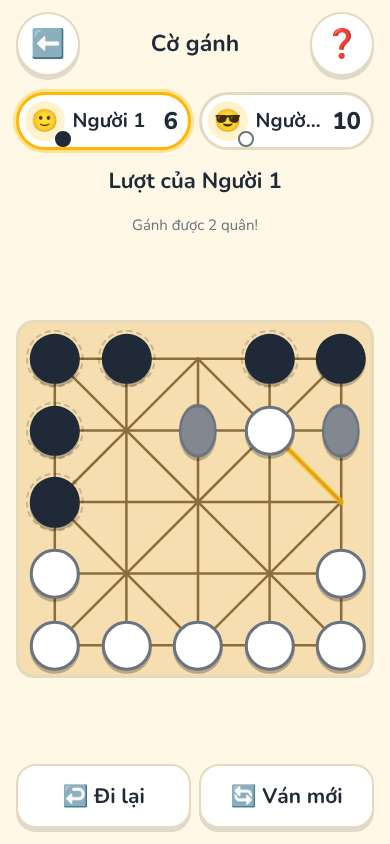
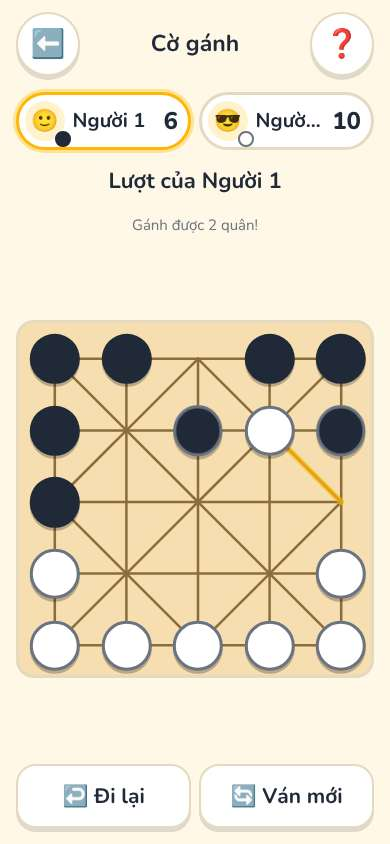
Remove hints: Tìm số no longer highlights the next number; Cờ gánh shows no move hints except for a forced Mở
Claude-Session: https://claude.ai/code/session_01SFZdZzeQbxhunHEM3pXjHe

diff --git a/src/games/numbers/NumbersBoard.tsx b/src/games/numbers/NumbersBoard.tsx
@@ -3,7 +3,6 @@ import { sfx } from '../../lib/sound';
 import { JITTER, type Layout } from './logic';
 
 export const COUNTDOWN = 3;
-const HINT_AFTER_MS = 15_000;
 /** Tap target diameter in grid cells: tiles are ≥ 1 - 2·JITTER apart, so this never overlaps. */
 const HIT_SIZE = 1 - 2 * JITTER;
 
@@ -76,7 +75,6 @@ export function NumbersBoard({
   owner,
   me,
   next,
-  round,
   disabled,
   onFind,
 }: {
@@ -84,17 +82,12 @@ export function NumbersBoard({
   owner: Record<string, string>;
   me: string;
   next: number;
-  round: unknown;
+  /** changes every round (kept for callers; the board itself has no timers) */
+  round?: unknown;
   disabled: boolean;
   onFind: (n: number) => void;
 }) {
   const [wrong, setWrong] = useState<number | null>(null);
-  const [hint, setHint] = useState(false);
-  useEffect(() => {
-    setHint(false);
-    const id = setTimeout(() => setHint(true), HINT_AFTER_MS);
-    return () => clearTimeout(id);
-  }, [next, round]);
 
   const tap = (n: number) => {
     if (disabled || owner[n]) return;
@@ -137,7 +130,7 @@ export function NumbersBoard({
             <button
               key={tile.n}
               data-testid={`num-${tile.n}`}
-              className={`num ${cls} ${wrong === tile.n ? 'wrong' : ''} ${hint && tile.n === next ? 'hint' : ''}`}
+              className={`num ${cls} ${wrong === tile.n ? 'wrong' : ''}`}
               style={
                 {
                   left: `${tile.x * 100}%`,

diff --git a/e2e/qa/coganh.spec.ts b/e2e/qa/coganh.spec.ts
@@ -9,13 +9,15 @@ const played = (page: import('@playwright/test').Page) =>
 const OPEN = { from: 2, to: 7 };
 const FORCED = { from: 14, to: 8 };
 
-test("[UX-16] tapping a piece shows where it can go; the opponent's pieces are refused", async ({
+test("[UX-16] no move hints: tap a piece, then where it goes; the opponent's pieces are refused", async ({
   browser,
 }) => {
   const { page, errors } = await openApp(browser);
   await page.goto('/#/coganh/play?mode=local');
+  await expect(page.locator('.cg-pt.movable'), '[UX-16] movable pieces are hinted').toHaveCount(0);
   await page.getByTestId('pt-10').click(); // Black (0,2)
-  await expect(page.locator('.cg-pt.target'), '[UX-16] targets of (0,2)').toHaveCount(3);
+  await expect(page.getByTestId('pt-10')).toHaveClass(/selected/);
+  await expect(page.locator('.cg-pt.target'), '[UX-16] targets are hinted').toHaveCount(0);
   await page.getByTestId('pt-0').click(); // another Black piece: the selection moves to it
   await expect(page.getByTestId('pt-0'), '[UX-16] selection did not move').toHaveClass(/selected/);
   await expect(page.locator('.cg-pt.selected'), '[UX-16] two pieces selected').toHaveCount(1);

diff --git a/e2e/qa/ux.spec.ts b/e2e/qa/ux.spec.ts
@@ -124,16 +124,15 @@ test('[UX-05][UX-12] end of a round shows the result, play again and home; repla
   await expect(page.getByTestId('countdown'), '[UX-12] no countdown on replay').toBeVisible();
 });
 
-test('[UX-06] the next number is hinted after 15 s without progress', async ({ browser }) => {
+test('[UX-06] no hint: the next number is never highlighted for you', async ({ browser }) => {
   const { page } = await openApp(browser);
   await page.clock.install();
   await page.goto('/#/numbers/play?mode=practice&level=easy');
   await page.clock.runFor(3000);
   await waitCountdown(page);
-  await expect(page.getByTestId('num-1')).not.toHaveClass(/hint/);
-  await page.clock.runFor(16_000);
-  await expect(page.getByTestId('num-1'), '[UX-06] no hint after 16 s').toHaveClass(/hint/);
-  await evidence(page, 'ux', 'D2', 'UX-06-hint');
+  await page.clock.runFor(30_000);
+  await expect(page.locator('.num.hint'), '[UX-06] a number is hinted').toHaveCount(0);
+  await evidence(page, 'ux', 'D2', 'UX-06-no-hint');
 });
 
 test('[UX-07] undo vs computer removes both moves', async ({ browser }) => {

diff --git a/src/games/coganh/CoGanhBoard.tsx b/src/games/coganh/CoGanhBoard.tsx
@@ -82,8 +82,9 @@ export function CoGanhBoard({
             'cg-pt',
             c === 1 ? 'black' : c === 2 ? 'white' : 'empty',
             selected === i ? 'selected' : '',
-            target.has(i) ? 'target' : '',
-            canMove.has(i) && !disabled ? 'movable' : '',
+            // no move hints, except when a Mở forces a capture: then show what must move where
+            forced && target.has(i) ? 'target' : '',
+            forced && canMove.has(i) && !disabled ? 'movable' : '',
             forced && (canMove.has(i) || target.has(i)) ? 'forced' : '',
             flip.has(i) ? 'flip' : '',
             last?.to === i ? 'last' : '',
@@ -104,7 +105,7 @@ export function CoGanhBoard({
               }}
             >
               {c !== 0 && <span className="cg-piece" style={{ width: piece, height: piece }} />}
-              {c === 0 && target.has(i) && (
+              {c === 0 && forced && target.has(i) && (
                 <span className="cg-dot" style={{ width: piece * 0.42, height: piece * 0.42 }} />
               )}
             </button>

diff --git a/src/styles.css b/src/styles.css
@@ -539,10 +539,6 @@ input {
   animation: shake 0.35s;
 }
 
-.num.hint {
-  outline: 4px dashed var(--primary);
-}
-
 @keyframes shake {
   25% {
     transform: translate(-58%, -50%) rotate(var(--rot));
@@ -824,14 +820,6 @@ input {
   background: var(--p2);
   color: white;
   opacity: 0.55;
-}
-
-.num.hint {
-  outline: none;
-}
-
-.num.hint .num-face {
-  outline: 4px dashed var(--primary);
 }
 
 .exit-btn {

diff --git a/qa/review-log.md b/qa/review-log.md
@@ -105,3 +105,9 @@ Run 02: 52/52 case PASS. Trước khi kết luận, review thêm: soát ảnh ev
 | LG-25 | Chơi thử thấy máy mức Dễ dùng từ khó ("sĩ phu"). Thử chọn tự động theo độ phổ biến của từng tiếng thì lọt "nạn nhân", "sống thử", "an tử": không dùng được. Chuyển sang danh sách chọn tay (≈ 900 từ theo chủ đề: gia đình, trường lớp, con vật, đồ ăn, thiên nhiên, đồ chơi, Tết…), có nghĩa tiếng Anh cho từ Wiktionary chưa có. |
 
 | CR-06 (run 12) | Lỗi test lần 2, khi chạy song song nặng: vòng Back/Forward lùi quá trang đầu ra `about:blank`, rồi Forward tải lại cả app và Playwright chờ sự kiện "load" không đến trong 90 giây (trang được lấy lại từ bfcache hoặc máy quá tải). Ảnh lúc lỗi: app hiển thị bình thường; chạy riêng 8/8 pass. Người chơi không thể lùi ra khỏi app, nên test được sửa cho đúng kịch bản: bấm nhanh trong app, không chờ từng trang tải xong, rồi kiểm tra không trắng màn hình và không lỗi. |
+
+## Review lần 9 – bỏ gợi ý, v2.7 → v2.8
+
+| Case         | Lý do                                                                                                                                                                                                   |
+| ------------ | ------------------------------------------------------------------------------------------------------------------------------------------------------------------------------------------------------- |
+| UX-06, UX-16 | Chủ dự án yêu cầu bỏ gợi ý ở Tìm số (số tiếp theo sáng sau 15 giây) và Cờ gánh (quân đi được, điểm đến). Riêng khi bị Mở, Cờ gánh vẫn tô sáng quân và điểm bắt buộc (chủ dự án chọn). UX-17 giữ nguyên. |
